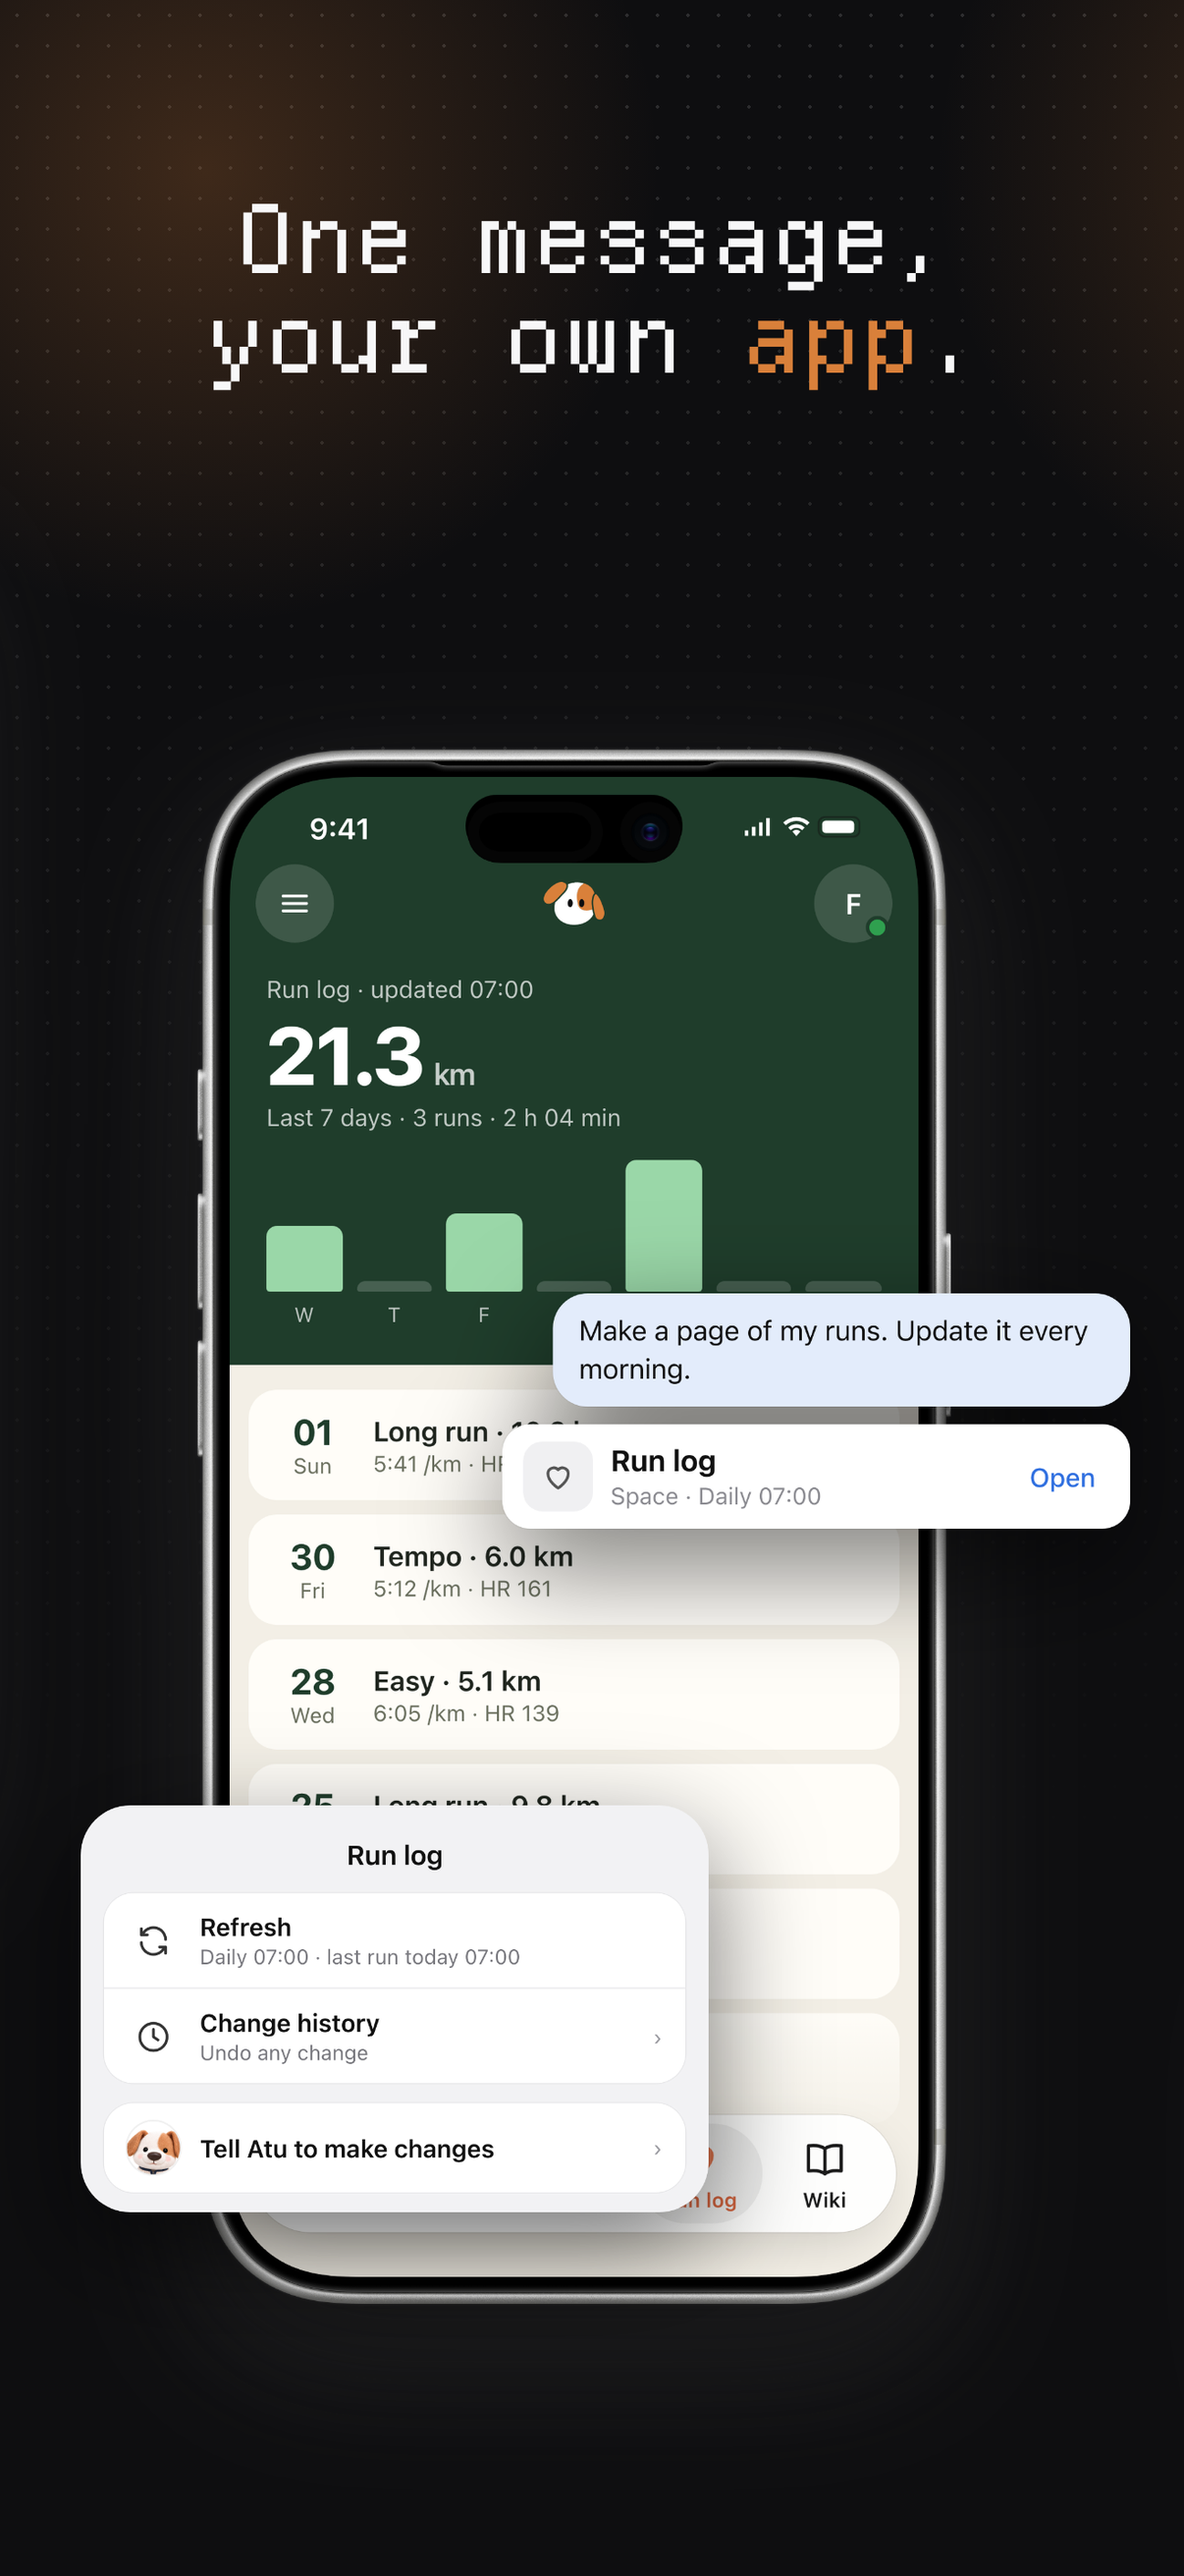
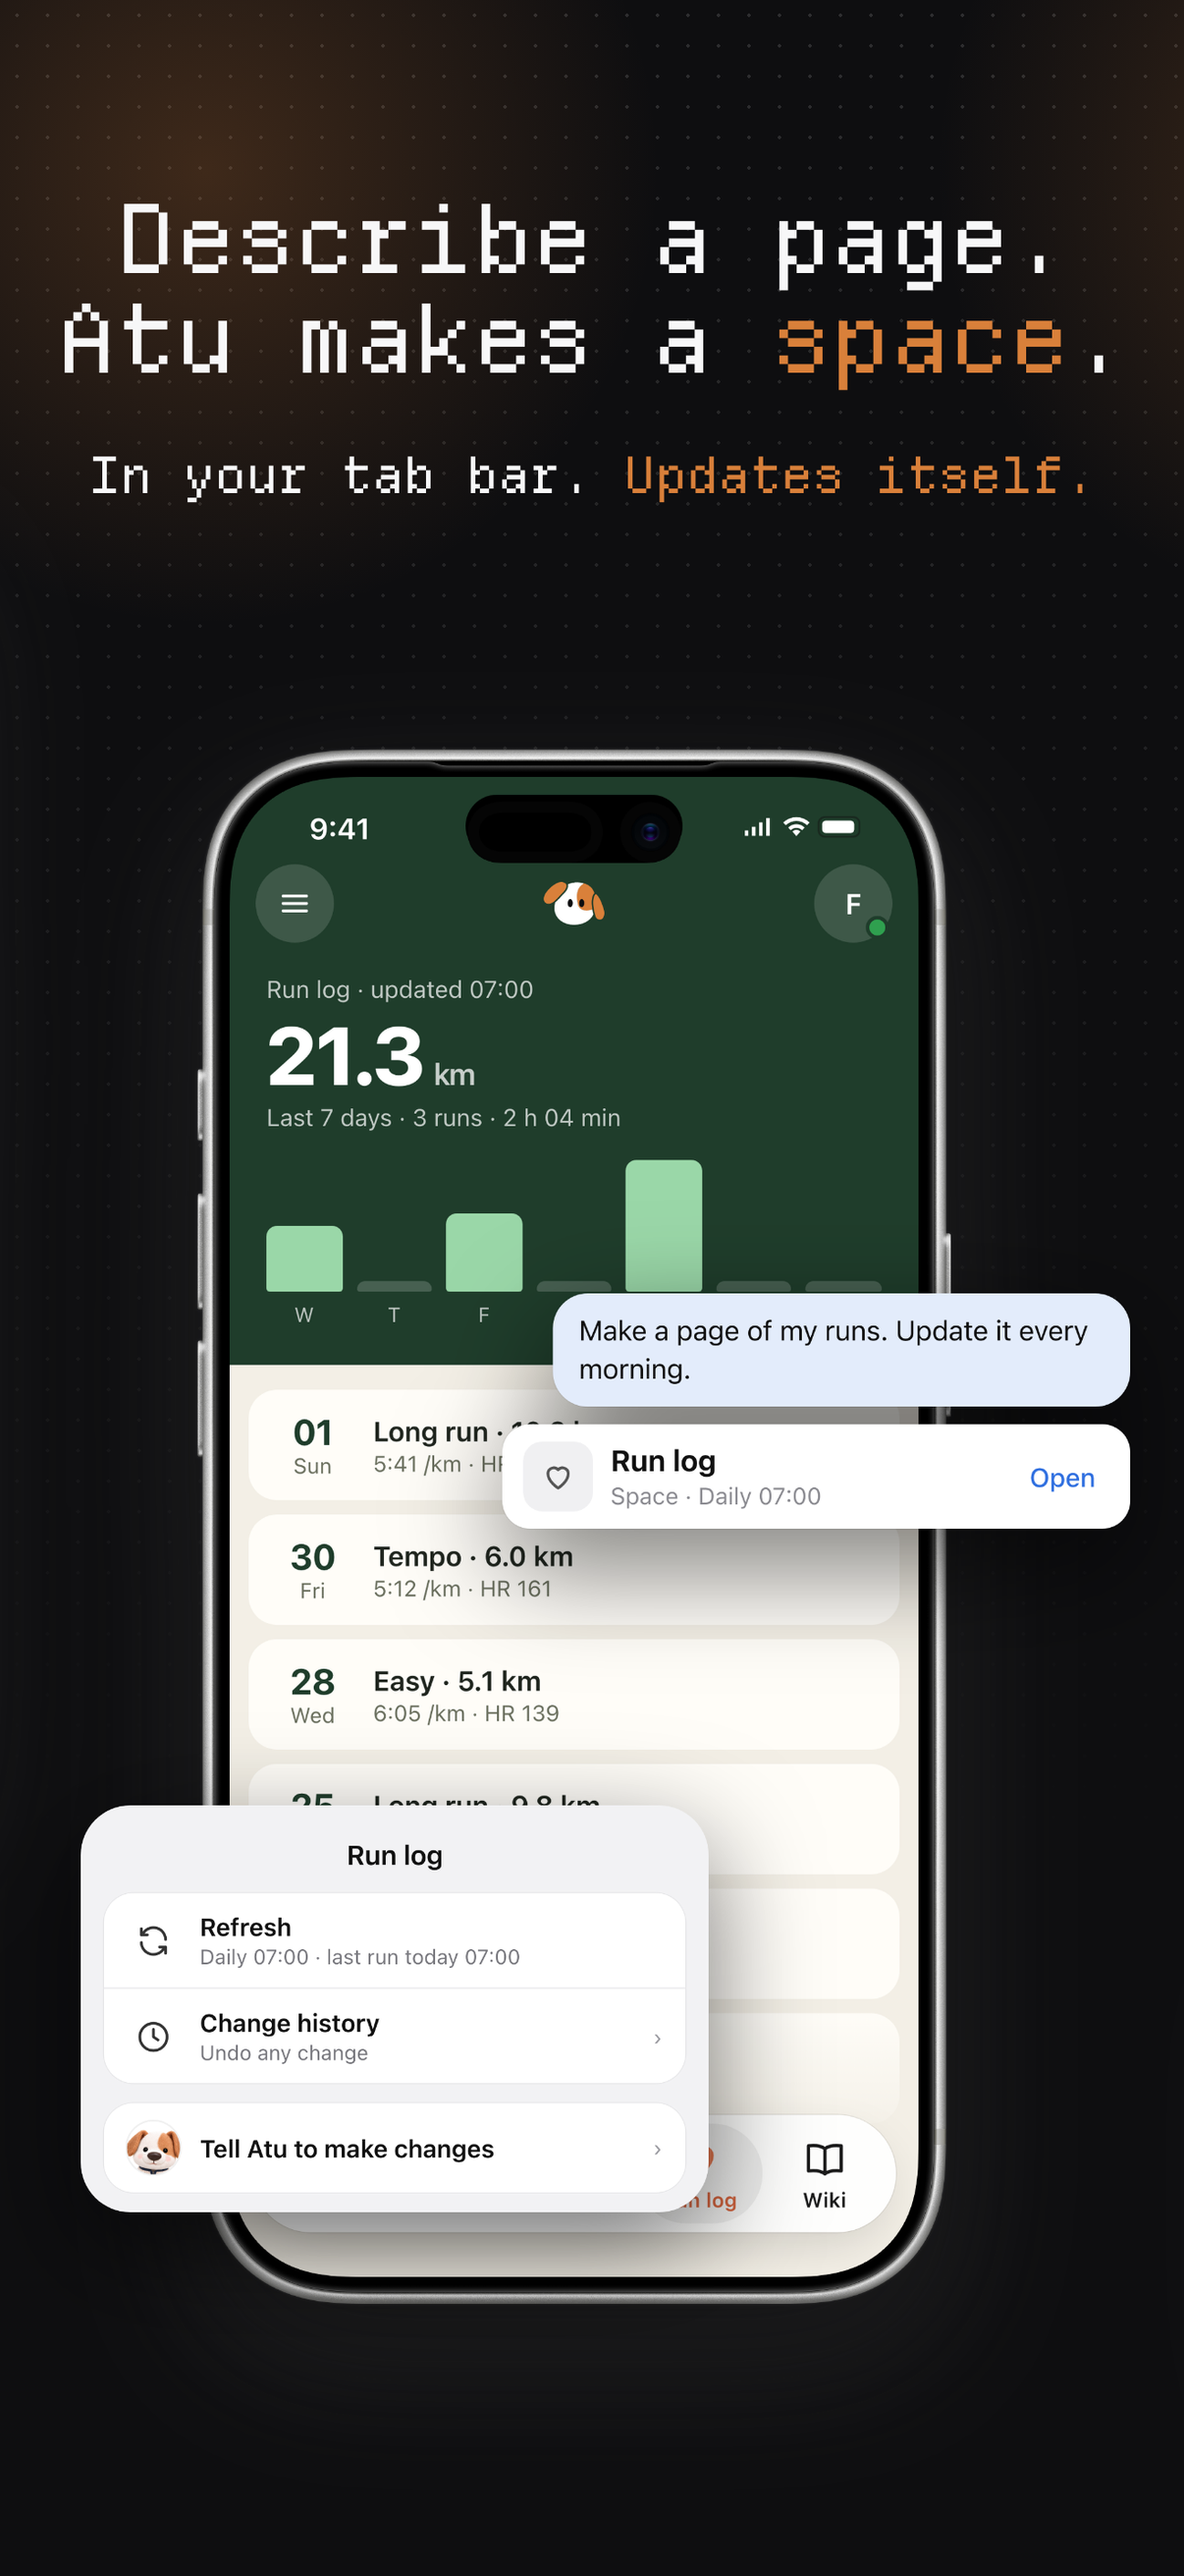
brand: App Store Space page headline follows the site: Describe a page. Atu makes a space.

Changed region(s): [[0.0307, 0.0618, 0.8897, 0.1854], [0.5522, 0.1854, 0.5829, 0.2162]]

diff --git a/brand/hey-atu-brand-kit/09-generator/appstore-v2/compose_c.py b/brand/hey-atu-brand-kit/09-generator/appstore-v2/compose_c.py
@@ -200,10 +200,11 @@ P6 = ''.join([
     phone('p6-wiki', k + 470, 1150, 820, z=3),
 ])
 
-# ---- page 7: a space: one message makes a small app that Atu keeps up to date ---------------
+# ---- page 7: a space: Atu makes a page from one message and keeps it up to date ---------------
 k = 6 * W
 P7 = ''.join([
-    head(6, ['One message,', 'your own *app*.']),
+    head(6, ['Describe a page.', 'Atu makes a *space*.']),          # heyatu.com 19:00 Spaces
+    text(k, 500, 56, ['In your tab bar. *Updates itself.*'], align='center', width=W),
     phone('p7-space', k + 640, 821),
     img(f'{S}/scr-spadd.png', k + 560, 1440, 700, z=5),              # the message and the space card in the chat
     img(f'{S}/scr-spmenu.png', k + 90, 2010, 700, z=6, cls='card'),  # the space menu: refresh, history, tell Atu

diff --git a/brand/hey-atu-brand-kit/09-generator/appstore-v2/compose_ipad.py b/brand/hey-atu-brand-kit/09-generator/appstore-v2/compose_ipad.py
@@ -114,10 +114,11 @@ P6 = ''.join([
 # 7 space: the run log, the message and its space card, the space menu (2026-11-09)
 k = 6 * W
 P7 = ''.join([
-    head(6, ['One message,', 'your own *app*.']),
-    ipad(6, 'space', 760),
-    img(f'{S}/scr-spadd.png', k + 1080, 1640, 900, z=5),
-    img(f'{S}/scr-spmenu.png', k + 110, 2020, 900, z=6, cls='card'),
+    head(6, ['Describe a page.', 'Atu makes a *space*.']),          # heyatu.com 19:00 Spaces
+    text(k, 560, 84, ['In your tab bar. *Updates itself.*'], align='center', width=W),
+    ipad(6, 'space', 860),
+    img(f'{S}/scr-spadd.png', k + 1080, 1740, 900, z=5),
+    img(f'{S}/scr-spmenu.png', k + 110, 2080, 900, z=6, cls='card'),
 ])
 
 CSS = f'''
